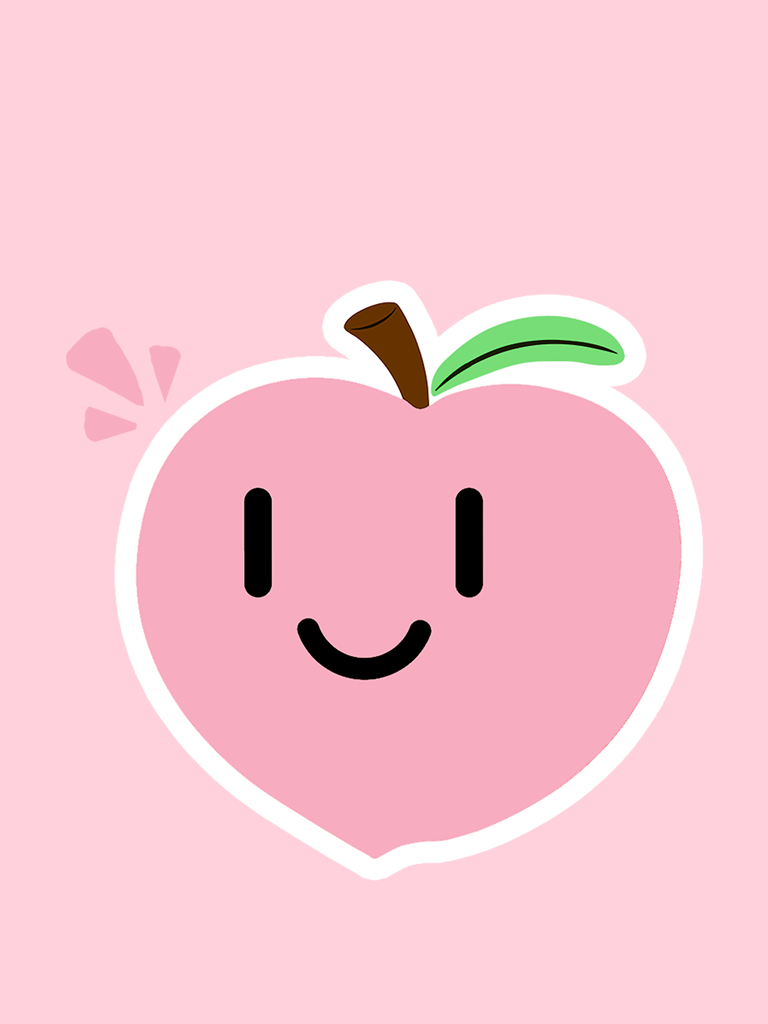
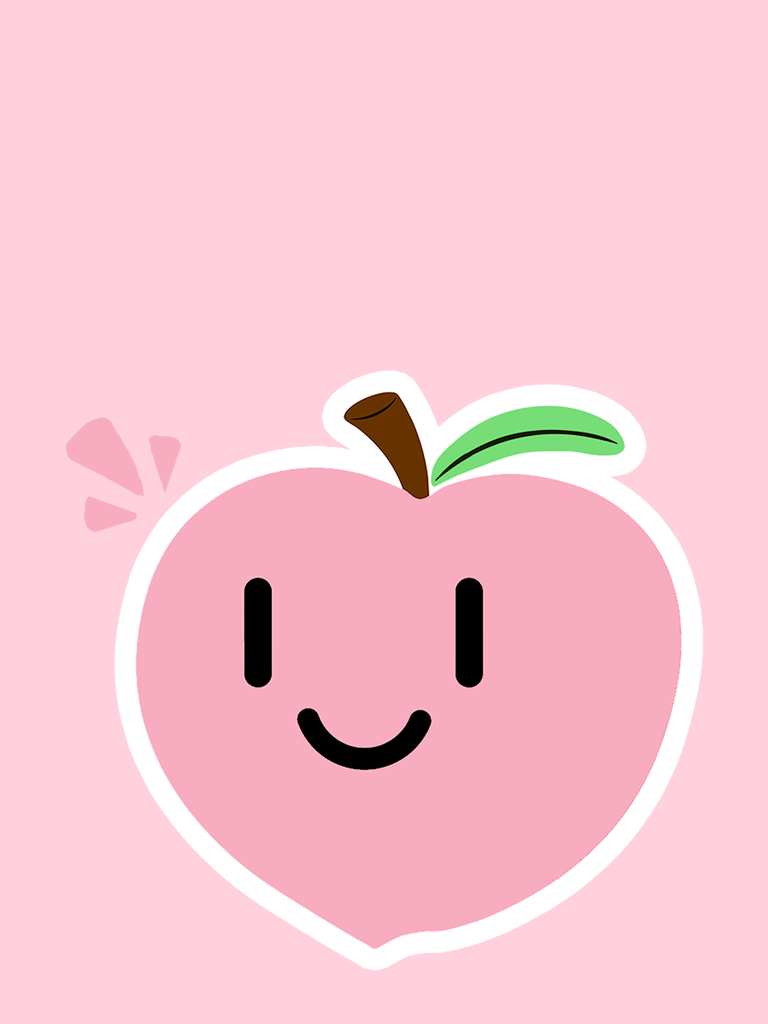
Fix image on mobile

Changed region(s): [[0.0625, 0.25, 0.9375, 0.9688], [0.375, 0.6875, 0.5625, 0.75]]

diff --git a/css/momobot.css b/css/momobot.css
@@ -87,7 +87,7 @@ body {
     padding: 0 50px;
   }
   header .header-content .header-content-inner {
-    max-width: 1000px;
+    max-width: 80%;
     margin-left: auto;
     margin-right: auto;
   }
@@ -102,11 +102,10 @@ body {
   }
 }
 
-@media screen and (max-width: 768px) {
+@media screen and (max-width: 767px) {
   #ball {
        width: 0px;
        height: 0px;
-       background-image: url('../img/momo_small.png');
        -webkit-background-size: cover;
        -moz-background-size: cover;
        background-size: cover;
@@ -121,13 +120,15 @@ body {
   }
 
   header {
-    min-height: 100%;
-    background-position: middle;
+    background-position: center center;
     background-image: url('../img/background_mobile.png');
+    background-size: contain;
+    background-repeat: no-repeat;
 
-    position: relative;
+    position: relative
+
     max-width: 100%;
-    height: auto;
+    min-height: 100%;
     width: auto;
   }
   header .header-content {
@@ -137,7 +138,7 @@ body {
     width: 100%;
   }
   header .header-content .header-content-inner h1 {
-    font-size: 12vw;
+    font-size: 10vh;
     font-weight: 700;
     margin-top: 0;
     margin-bottom: 0;
